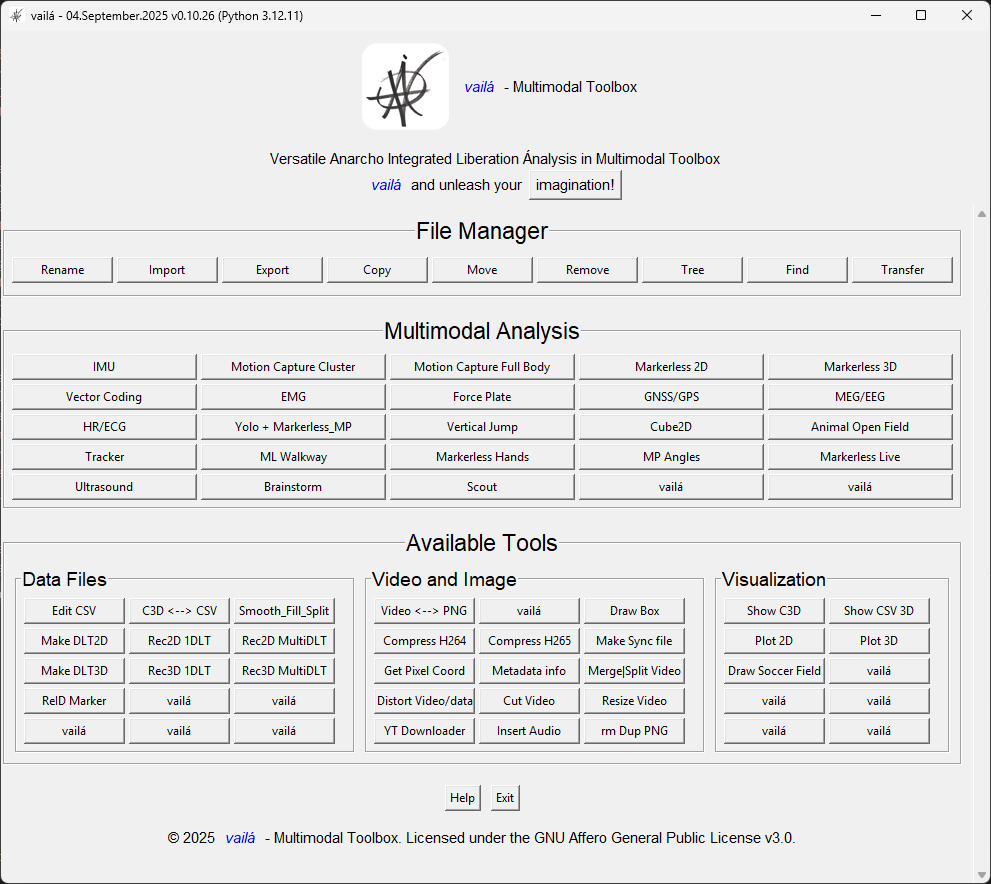
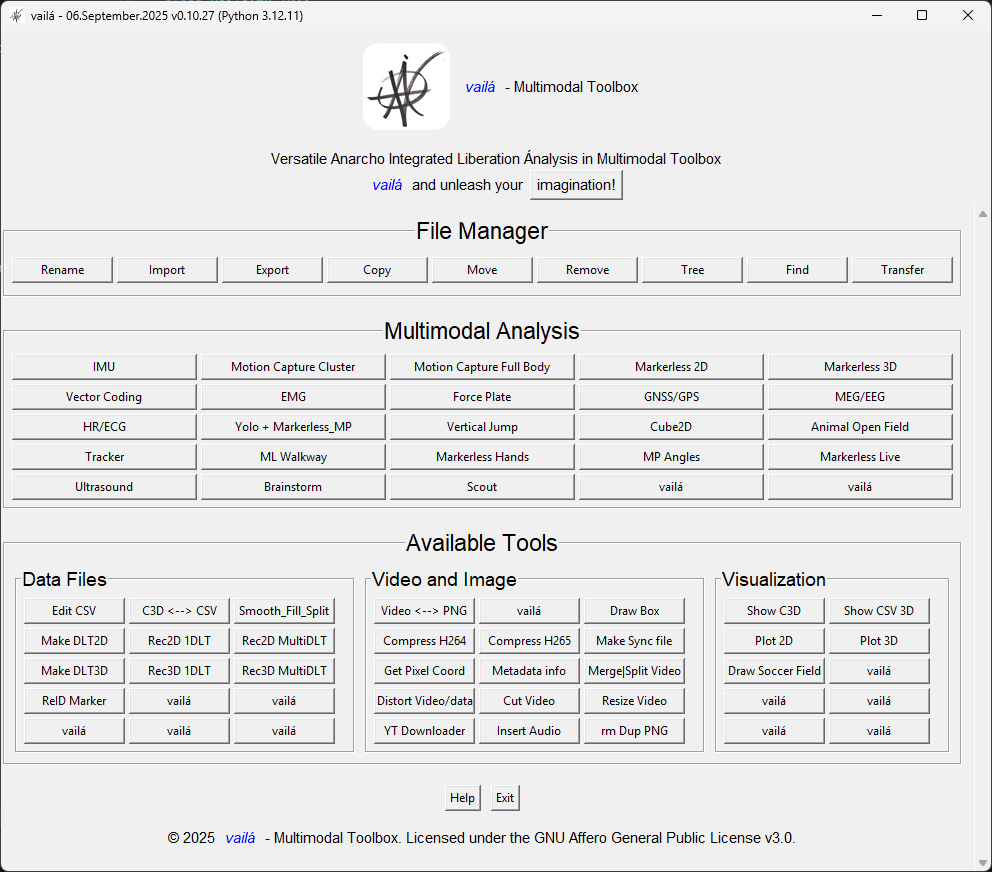
release pir 6set2025 (#409)

diff --git a/vaila.py b/vaila.py
@@ -4,8 +4,8 @@ vaila.py
 ===============================================================================
 Author: Prof. Paulo R. P. Santiago
 Date:  07 October 2024
-Update:  04 September 2025
-Version updated: 0.10.26
+Update:  06 September 2025
+Version updated: 0.10.27
 Python Version: 3.12.11
 
 Description:
@@ -136,7 +136,7 @@ if platform.system() == "Darwin":  # macOS
         pass
 
 text = r"""
-vailá - 04.September.2025 v0.10.26 (Python 3.12.11)
+vailá - 06.September.2025 v0.10.27 (Python 3.12.11)
                                              o
                                 _,  o |\  _,/
                           |  |_/ |  | |/ / |
@@ -235,7 +235,7 @@ class Vaila(tk.Tk):
 
         """
         super().__init__()
-        self.title("vailá - 04.September.2025 v0.10.26 (Python 3.12.11)")
+        self.title("vailá - 06.September.2025 v0.10.27 (Python 3.12.11)")
 
         # Adjust dimensions and layout based on the operating system
         self.set_dimensions_based_on_os()
@@ -273,7 +273,7 @@ class Vaila(tk.Tk):
         Adjusts the window dimensions, button width, and font size based on the operating system.
         """
         if platform.system() == "Darwin":  # macOS
-            self.geometry("1920x1080")  # Wider window for macOS
+            self.geometry("1024x920")  # Wider window for macOS
             self.button_width = 12  # Slightly wider buttons
             self.font_size = 11  # Standard font size
         elif platform.system() == "Windows":  # Windows